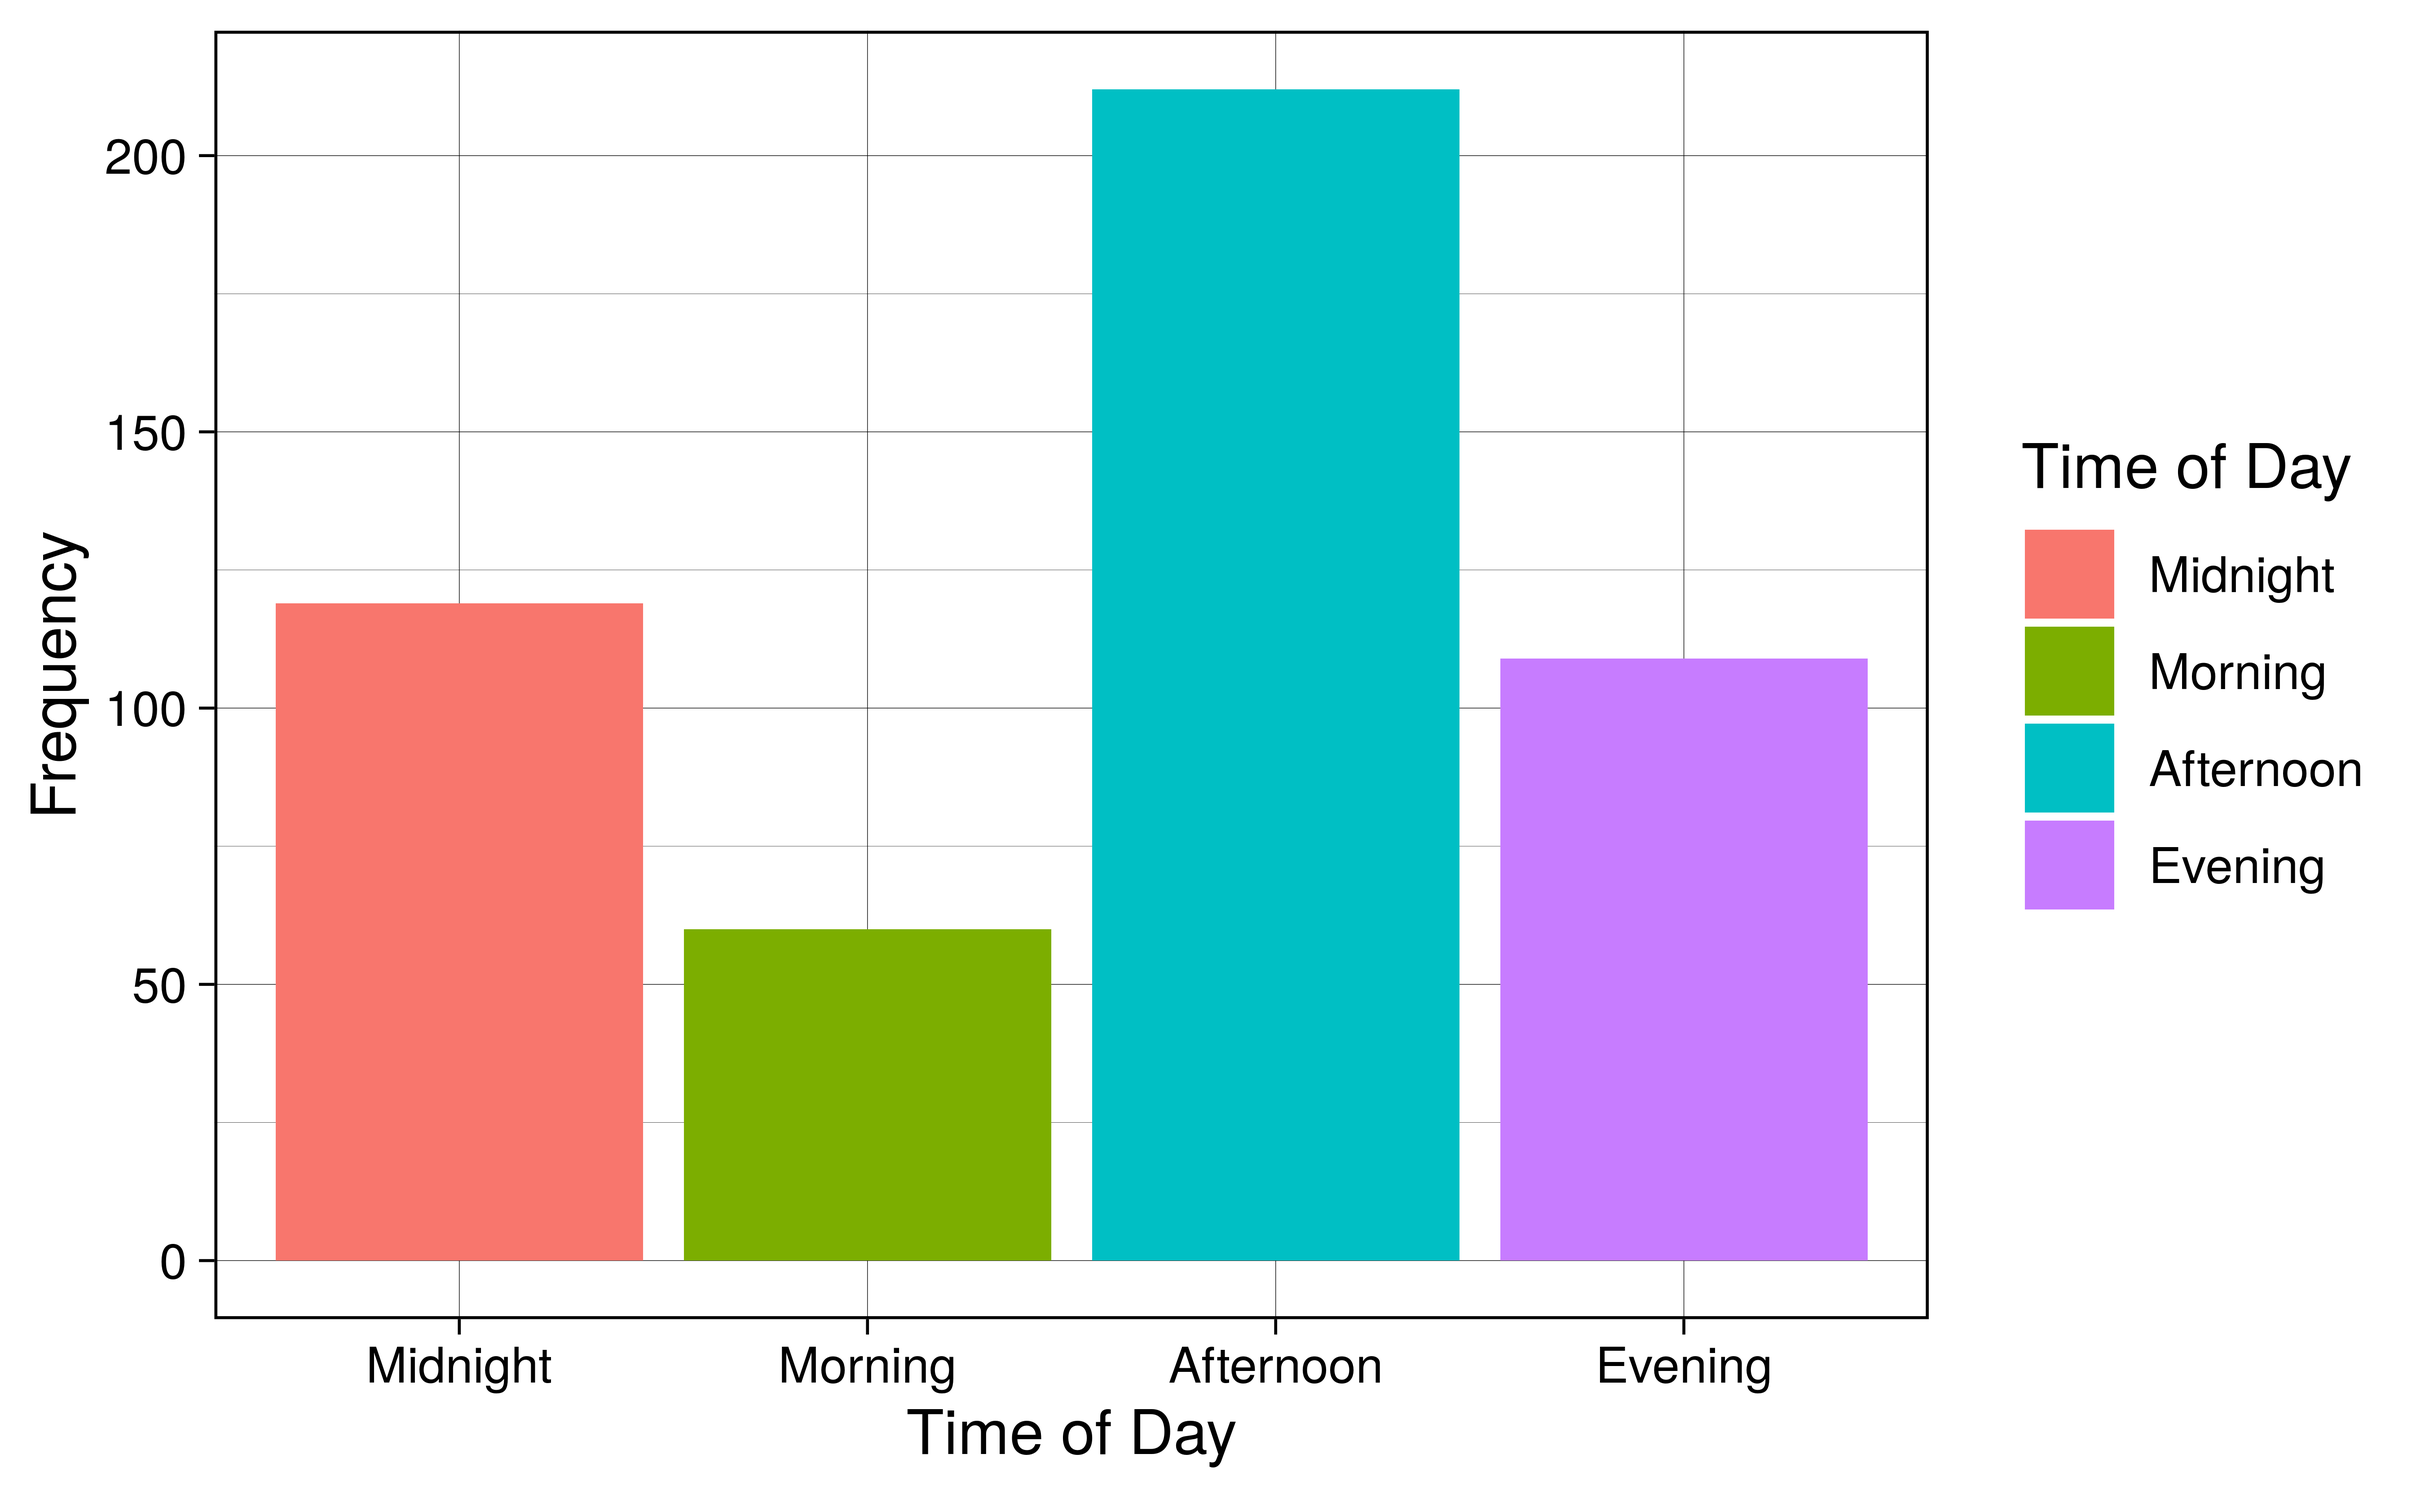
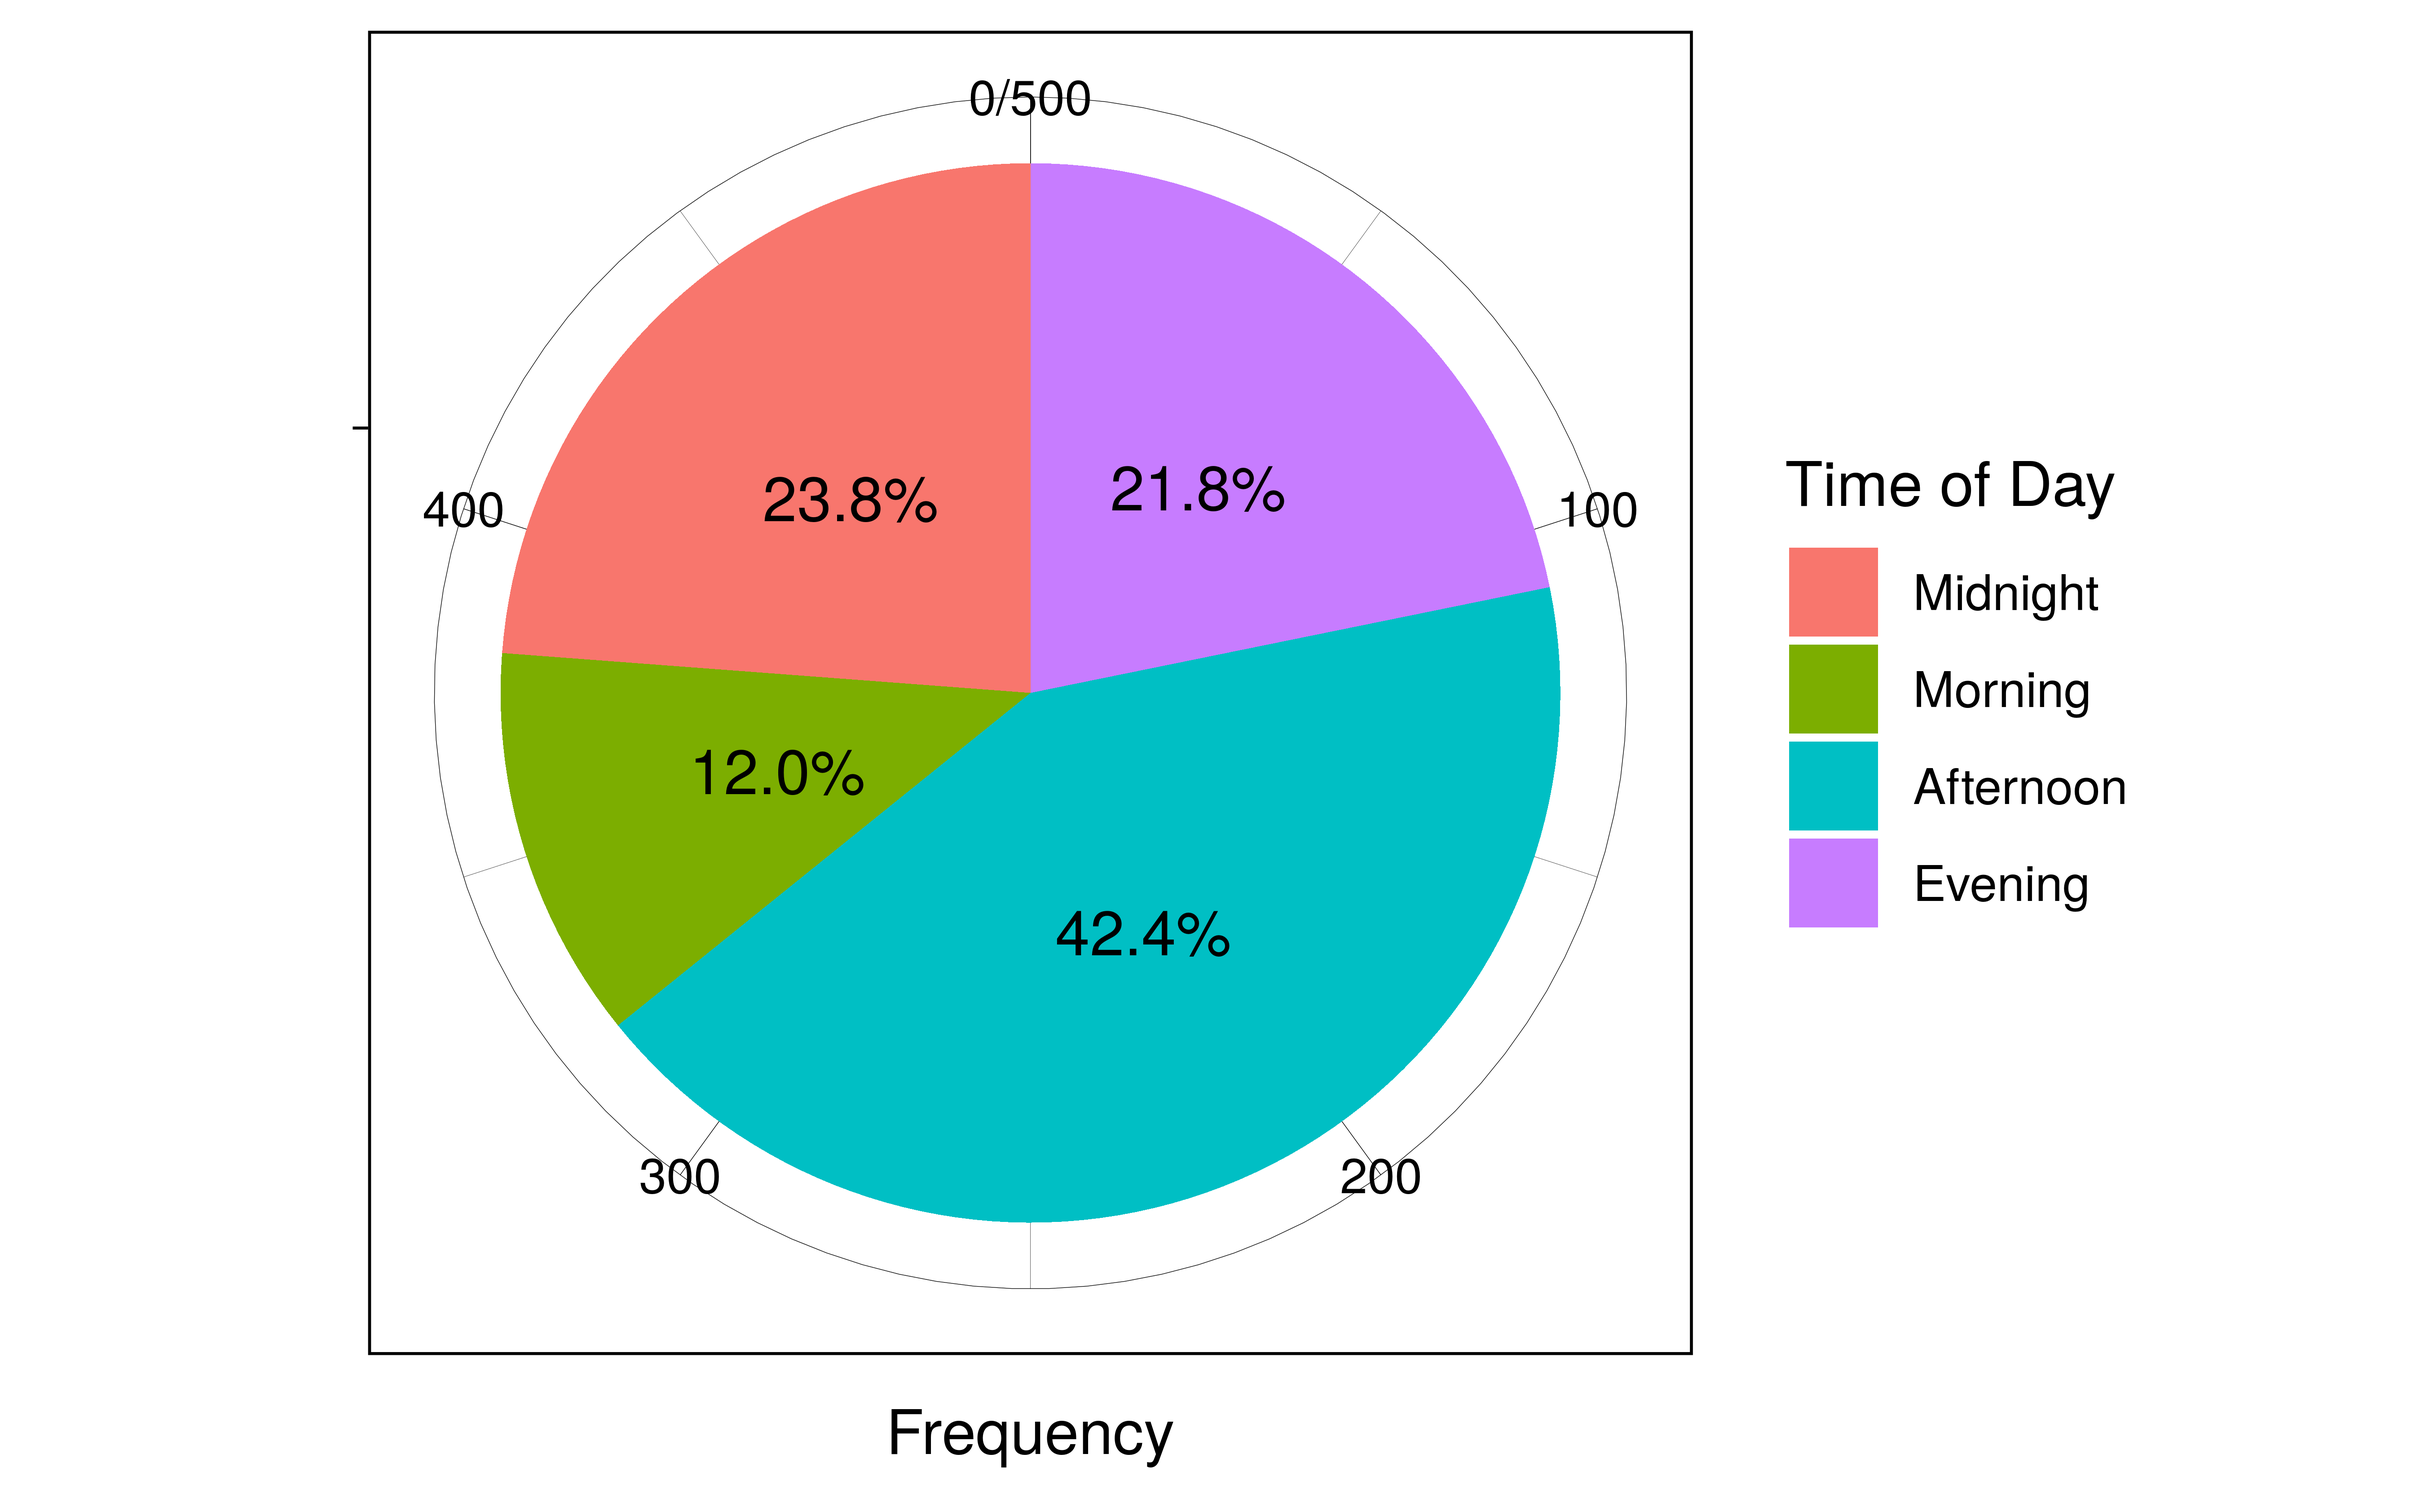
Graph!!!

diff --git a/presentation/presentation.html b/presentation/presentation.html
@@ -163,8 +163,11 @@ class: inverse, middle, center
 26: Howto &amp; Style: Tutorials, fashion/style
 
 28: Science &amp; Technology: Tech reviews, innovations
----
 
+---
+&lt;img src="presentation_files/figure-html/pie chart-1.png" width="80%" /&gt;
+
+---
 
 # What time did the top 500 Youtube videos upload?
 
@@ -241,6 +244,29 @@ class: inverse, middle, center
 Regular videos' overall proportion of dislikes: 0.001504847
 
 Clickbait videos' proportion of dislikes: 0.003008789
+
+---
+
+```r
+dislikes_prop &lt;- data.frame(type = c("all videos", "clickbait videos"),
+                            prop = c(0.001504847, 0.003008789)
+                            )
+
+ggplot(dislikes_prop, aes(x = type, y = prop))+
+  geom_histogram(stat = "identity")+
+  labs(x = "video types",
+       y = "proportion",
+       title = "Proportion of Dislikes",
+       subtitle = "comparison between proportion of all videos and clickbait videos")+
+  theme_light()
+```
+
+```
+## Warning: Ignoring unknown parameters: binwidth, bins, pad
+```
+
+&lt;img src="presentation_files/figure-html/unnamed-chunk-1-1.png" width="80%" /&gt;
+
 ---
 
 
